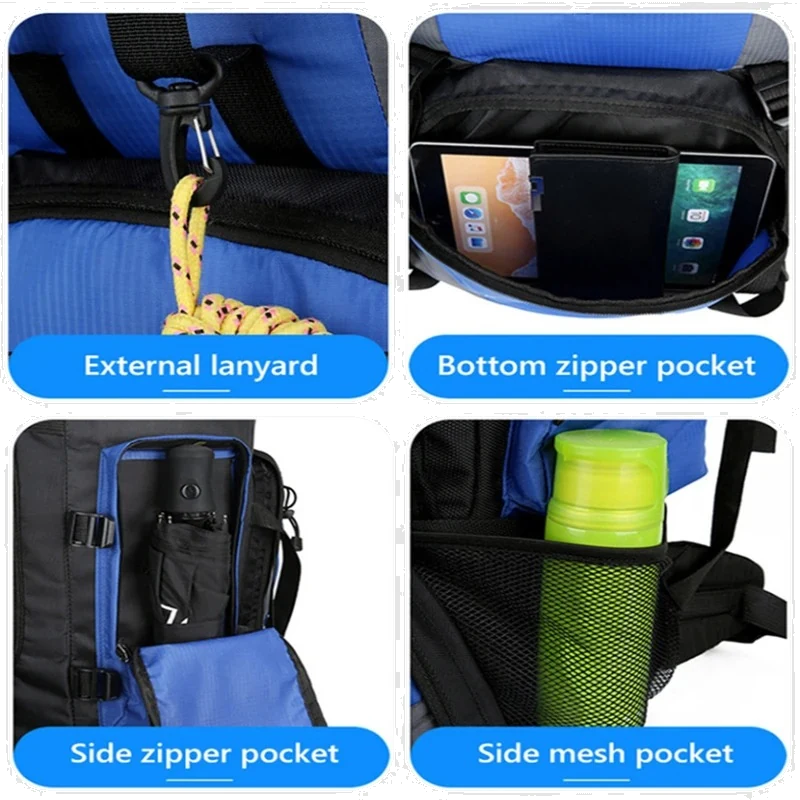
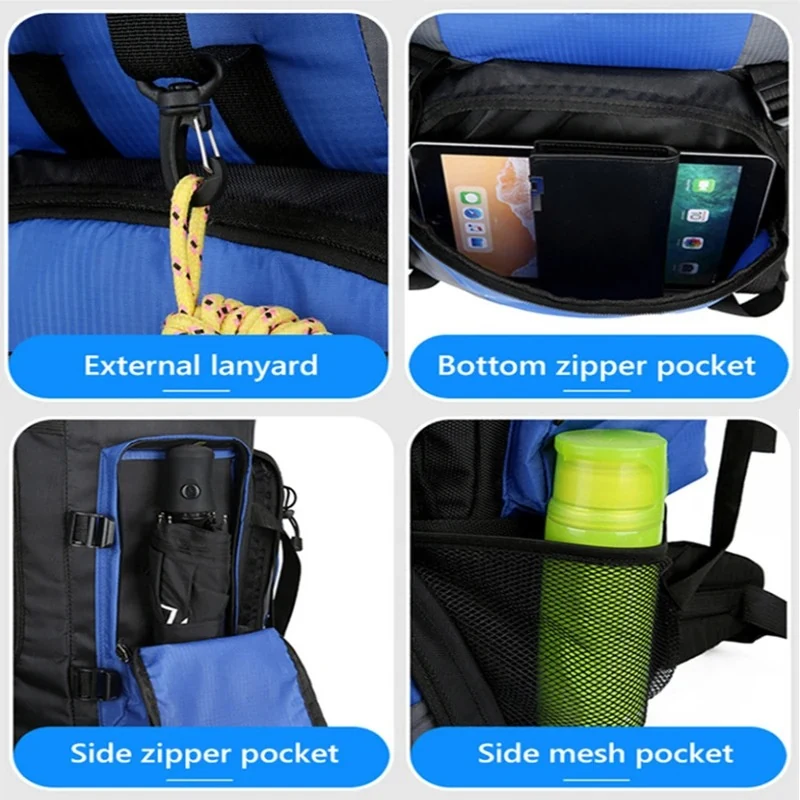
Restore original photo backgrounds, present all three in a glass card
Owner's call after seeing the transparent-cutout version live: floating
product shots directly on the page background didn't read as
professional. Reverted the background-removal step on all three
images (kept the same crop that trims the bundled rain-cover graphic
and promo text off the black/green shots) - they're back to their
original studio-white backgrounds.

Added a new .product-shot component to global.css instead of one-off
inline styles: rounded 20px card, translucent white background with a
backdrop blur, soft pine-tinted shadow, 12px radius on the image
itself. Wrapped all three affiliate images in it. This is a new visual
pattern for the site (rounder and glassier than the existing 6px
.chapter-card/.article-card style), scoped to product images only -
did not touch the existing card components elsewhere.

Verified the actual rendered result again, not just the CSS: rebuilt,
served dist/ locally, screenshotted the live article with the
pre-installed headless Chromium. site-check before/after - safe.

diff --git a/public/global.css b/public/global.css
@@ -109,6 +109,16 @@ section { padding: clamp(40px, 7vw, 76px) 0; }
 .article-card h3 { font-size: 1.08rem; text-transform: none; letter-spacing: 0; font-family: "Source Serif 4", serif; font-weight: 600; line-height: 1.3; }
 .article-card p { color: var(--ink-soft); font-size: 0.88rem; margin: 8px 0 0; }
 
+/* ---------- glass-card product shots (in-article affiliate images) ---------- */
+.product-shot {
+  display: block; border-radius: 20px; padding: 14px;
+  background: rgba(255,255,255,0.55);
+  -webkit-backdrop-filter: blur(8px); backdrop-filter: blur(8px);
+  border: 1px solid rgba(255,255,255,0.65);
+  box-shadow: 0 8px 24px rgba(20,38,29,0.14);
+}
+.product-shot img { border-radius: 12px; display: block; width: 100%; }
+
 /* ---------- article page header ---------- */
 .article-header { border-bottom: 1px solid var(--line); padding-bottom: 26px; margin-bottom: 30px; }
 .article-header h1 { font-size: clamp(1.8rem, 4vw, 2.6rem); margin: 8px 0 12px; }

diff --git a/src/content/articles/camping-packing-list-by-trip-length.md b/src/content/articles/camping-packing-list-by-trip-length.md
@@ -77,13 +77,13 @@ The other things that only appear at this length:
 - **Boredom, honestly.** Long evenings are long. Something to read or play matters more than people admit.
 
 <div class="article-grid" style="margin:20px 0;">
-  <a href="https://s.click.aliexpress.com/e/_c4TlkPWd" rel="sponsored noopener" target="_blank">
+  <a class="product-shot" href="https://s.click.aliexpress.com/e/_c4TlkPWd" rel="sponsored noopener" target="_blank">
     <img src="/images/90l-hiking-backpack.webp" alt="90L hiking backpack, black" loading="lazy">
   </a>
-  <a href="https://s.click.aliexpress.com/e/_c4TlkPWd" rel="sponsored noopener" target="_blank">
+  <a class="product-shot" href="https://s.click.aliexpress.com/e/_c4TlkPWd" rel="sponsored noopener" target="_blank">
     <img src="/images/90l-hiking-backpack-green.webp" alt="90L hiking backpack, green" loading="lazy">
   </a>
-  <a href="https://s.click.aliexpress.com/e/_c4TlkPWd" rel="sponsored noopener" target="_blank">
+  <a class="product-shot" href="https://s.click.aliexpress.com/e/_c4TlkPWd" rel="sponsored noopener" target="_blank">
     <img src="/images/90l-hiking-backpack-features.webp" alt="90L hiking backpack pocket and attachment points" loading="lazy">
   </a>
 </div>
